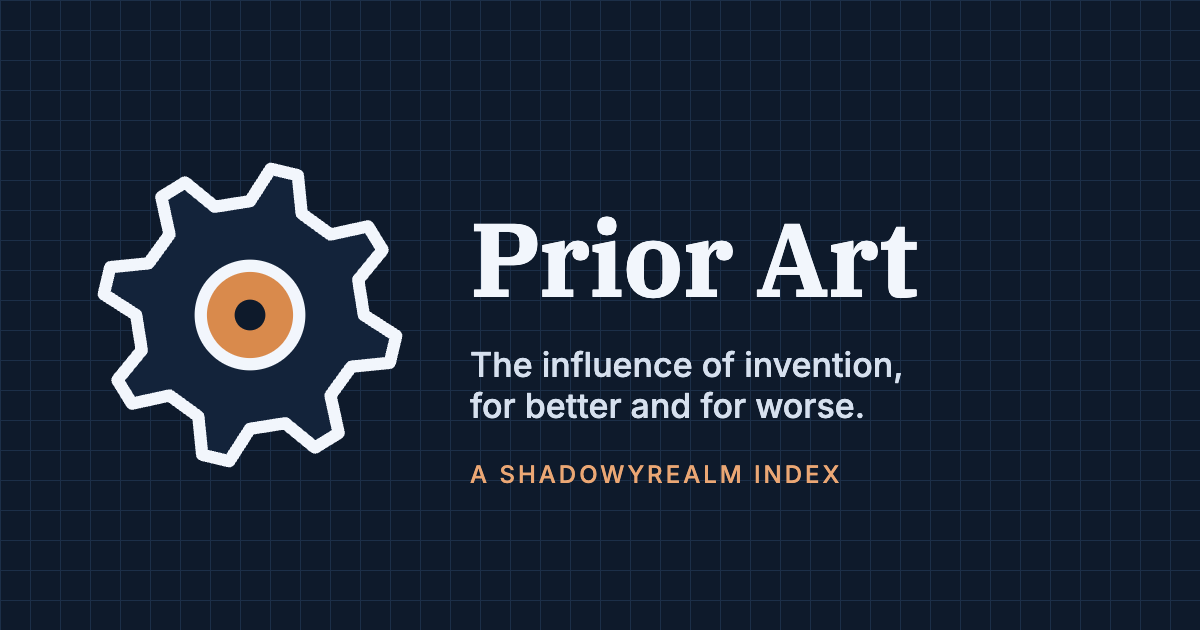
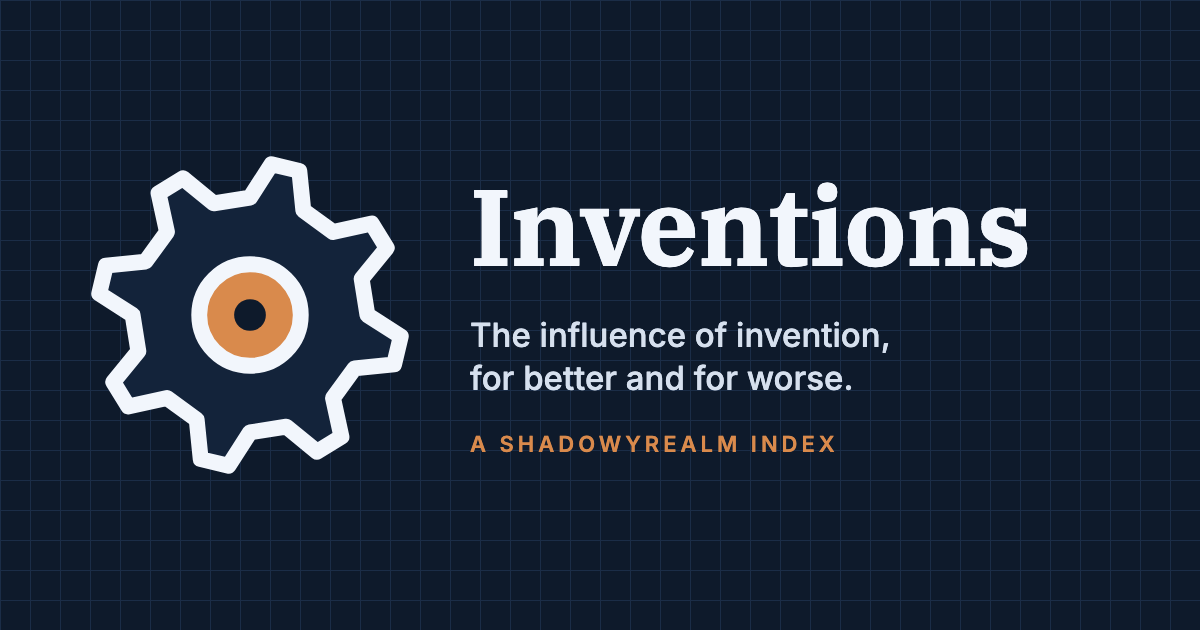
rename: Prior Art is now Inventions
A plain name for a novel idea. The brand, titles, share card, footer, menu
label, methodology prose, MCP server name and user agent say Inventions; the
site key, schema and priorart.shadowyrealm.com are unchanged. The methodology
no longer says credit is computed in Postgres: each share adds up every route
through the links, in the Worker, since 2026-11-16.

diff --git a/src/sites/inventions.ts b/src/sites/inventions.ts
@@ -1,5 +1,5 @@
 /**
- * Prior Art: inventions, inventors and products ranked by their influence,
+ * Inventions: inventions, inventors and products ranked by their influence,
  * from the first farms to the smartphone. Spec: .kiro/specs/inventions-site.
  */
 import { HISTORICAL_RUBRICS } from "./rubrics";
@@ -10,11 +10,11 @@ const DEPTH = "Rate how deeply those people were affected, not how many; breadth
 const ownActivity = (name: string) => `${name}'s own direct activity`;
 const makingAndUse = (name: string) => `the making and use of ${name}`;
 
-/** A subdomain of ShadowyRealm: Prior Art is one of its indexes. */
+/** A subdomain of ShadowyRealm: Inventions is one of its indexes. */
 const ORIGIN = "https://priorart.shadowyrealm.com";
 
-/** What each tier means on Prior Art (inventions-site Requirement 8.2). */
-export const PRIOR_ART_TIER_DESCRIPTORS: Record<TierDef["tier"], string> = {
+/** What each tier means on Inventions (inventions-site Requirement 8.2). */
+export const INVENTION_TIER_DESCRIPTORS: Record<TierDef["tier"], string> = {
   minimal: "Changed one industry or one era",
   moderate: "Changed work or life across a nation or a field",
   significant: "Changed daily life across nations and generations",
@@ -29,17 +29,17 @@ export const inventions: SiteConfig = {
   key: "inventions",
   schema: "inventions",
   brand: {
-    name: "Prior Art",
+    name: "Inventions",
     origin: ORIGIN,
-    title: "Prior Art — The Influence of Invention",
+    title: "Inventions — Ranked by Their Influence",
     description:
-      "Prior Art ranks inventions, inventors and products by their influence, from the first farms to the smartphone: what each did to the world, for better and for worse.",
+      "Inventions, inventors and products ranked by their influence, from the first farms to the smartphone: what each did to the world, for better and for worse.",
     ogImage: `${ORIGIN}/og-image.png`,
-    ogImageAlt: "The Prior Art mark, a patent drawing of meshing gears, on blueprint paper",
+    ogImageAlt: "The Inventions mark, a patent drawing of a gear, on blueprint paper",
     themeColor: "#0e1a2b",
     fontsHref:
       "https://fonts.googleapis.com/css2?family=IBM+Plex+Serif:wght@400;600;700&family=Inter:wght@400;500;600;700&display=swap",
-    userAgent: `PriorArt/1.0 (${ORIGIN})`,
+    userAgent: `ShadowyRealm-Inventions/1.0 (${ORIGIN})`,
   },
   scoring: {
     breadth: "reach",
@@ -101,11 +101,11 @@ export const inventions: SiteConfig = {
      * rule is from .kiro/specs/inventions-site/research.md.
      */
     tiers: [
-      { tier: "minimal", min: 0, label: "Notable", descriptor: PRIOR_ART_TIER_DESCRIPTORS.minimal },
-      { tier: "moderate", min: 50, label: "Major", descriptor: PRIOR_ART_TIER_DESCRIPTORS.moderate },
-      { tier: "significant", min: 100, label: "Great", descriptor: PRIOR_ART_TIER_DESCRIPTORS.significant },
-      { tier: "transformational", min: 500, label: "Epochal", descriptor: PRIOR_ART_TIER_DESCRIPTORS.transformational },
-      { tier: "legendary", min: 10000, label: "Legendary", descriptor: PRIOR_ART_TIER_DESCRIPTORS.legendary },
+      { tier: "minimal", min: 0, label: "Notable", descriptor: INVENTION_TIER_DESCRIPTORS.minimal },
+      { tier: "moderate", min: 50, label: "Major", descriptor: INVENTION_TIER_DESCRIPTORS.moderate },
+      { tier: "significant", min: 100, label: "Great", descriptor: INVENTION_TIER_DESCRIPTORS.significant },
+      { tier: "transformational", min: 500, label: "Epochal", descriptor: INVENTION_TIER_DESCRIPTORS.transformational },
+      { tier: "legendary", min: 10000, label: "Legendary", descriptor: INVENTION_TIER_DESCRIPTORS.legendary },
     ],
   },
   entityTypes: [
@@ -251,7 +251,7 @@ export const inventions: SiteConfig = {
     home: {
       heading: "Which inventions changed how we live — for better and for worse?",
       lede:
-        "Prior Art scores inventions, inventors and products by their influence, from the first farms to the smartphone. " +
+        "Inventions, inventors and products, scored by their influence from the first farms to the smartphone. " +
         "Benefit and harm are kept apart, never netted, and every invention passes a share of its weight back to the people and ideas it was built on.",
       toLineage: "Trace the lineage",
       toMethod: "How the score works",
@@ -280,12 +280,12 @@ export const inventions: SiteConfig = {
         "integrated circuit, the integrated circuit to Kilby and Noyce.",
     },
     auth: { signInHeading: "Sign In", signingIn: "Signing in..." },
-    footer: { tagline: "Prior Art — a ShadowyRealm index of invention" },
+    footer: { tagline: "Inventions — a ShadowyRealm index" },
   },
   mcp: {
-    serverName: "prior-art",
+    serverName: "inventions",
     about:
-      "Prior Art is an index of inventions, inventors and products that measures influence, not net good. An entity " +
+      "Inventions is a ShadowyRealm index of inventions, inventors and products that measures influence, not net good. An entity " +
       "is a person, organization, project, invention, product or discovery. What an invention made possible reaches " +
       "it as credit from the things built on it, so no dimension measures technology itself.",
     linkExamples:

diff --git a/src/sites/inventions/Methodology.tsx b/src/sites/inventions/Methodology.tsx
@@ -10,12 +10,12 @@ import {
   TierTable,
 } from "@/features/methodology/tables";
 
-/** Prior Art's account of its method; the tables come from the site config. */
+/** The Inventions index's account of its method; the tables come from the site config. */
 export function Methodology() {
   return (
     <>
       <p className="mt-4 text-lg text-ink-2">
-        Prior Art measures what inventions did to the world, not how clever they were. Fritz Haber's ammonia process
+        This index measures what inventions did to the world, not how clever they were. Fritz Haber's ammonia process
         feeds billions, and Haber also ran Germany's chlorine gas programme. Thomas Midgley gave the world leaded petrol
         and CFCs. The score keeps both sides of each.
       </p>
@@ -115,10 +115,9 @@ export function Methodology() {
 
         <h2 className="font-display text-ink">One of the ShadowyRealm indexes</h2>
         <p>
-          Prior Art runs on the same engine as ShadowyRealm, which scores people, institutions and events across
-          history. The credit shares are computed inside Postgres by a recursive query over the links, and a small
-          TypeScript calculator in a Cloudflare Worker turns periods into curves and areas for every page and for the
-          MCP tools that maintain the index.
+          Inventions runs on the same engine as ShadowyRealm, which scores people, institutions and events across
+          history. Each credit share adds up every route through the links, and the same calculator turns periods into
+          curves and areas for every page and for the MCP tools that maintain the index.
         </p>
         <p>
           <Link to="/realm">See the lineage</Link> or <Link to="/">return to the index</Link>.

diff --git a/content/types.ts b/content/types.ts
@@ -63,7 +63,7 @@ export type RealmEntity = SiteEntity<RealmEntityType>;
 export type RealmLink = SiteLink<RealmLinkType>;
 export type RealmContent = SiteContent<RealmEntityType, RealmLinkType>;
 
-// ---------- Prior Art ----------
+// ---------- Inventions ----------
 
 export type InventionsEntityType = "person" | "organization" | "project" | "invention" | "product" | "discovery";
 export type InventionsLinkType =
@@ -77,7 +77,7 @@ export type InventionsLinkType =
   | "rivalry"
   | "supersedes";
 export interface InventionsLink extends SiteLink<InventionsLinkType> {
-  /** Prior Art has no default link type. */
+  /** Inventions has no default link type. */
   type: InventionsLinkType;
 }
 export interface InventionsContent {

diff --git a/content/inventions/coverage.ts b/content/inventions/coverage.ts
@@ -1,5 +1,5 @@
 /**
- * Prior Art coverage, 2026-11-16: entries for the gaps a comparison with Wikipedia's Timeline of historic
+ * Inventions coverage, 2026-11-16: entries for the gaps a comparison with Wikipedia's Timeline of historic
  * inventions found (Landru work/shadowyrealm/prior-art-coverage.md), in eight batches drafted in parallel,
  * plus the hand-built aviation chain, and, from 2026-11-17, two batches of the creators of those entries.
  * Each batch's links stay inside it or reach existing entries; the links between batches are joined

diff --git a/test/system-one-scoring.test.ts b/test/system-one-scoring.test.ts
@@ -42,7 +42,7 @@ describe("depth", () => {
     expect(depthOf(sure)).toBeGreaterThan(depthOf(spread));
   });
 
-  test("is what ShadowyRealm reads from Clef, and Prior Art still reads the expected value", () => {
+  test("is what ShadowyRealm reads from Clef, and Inventions still reads the expected value", () => {
     const response = { answers: recorded.clef_answers };
     const people = readClefAnswers(shadowyrealm.scoring, response);
     for (const d of shadowyrealm.scoring.dimensions) {

diff --git a/content/inventions/coverage-d.ts b/content/inventions/coverage-d.ts
@@ -1,5 +1,5 @@
 /**
- * Prior Art coverage batch d: materials and weapons. Glass, brick, pottery,
+ * Inventions coverage batch d: materials and weapons. Glass, brick, pottery,
  * porcelain, stainless steel and the first plastics, with Wallace Carothers and
  * DuPont; the sword, bow, crossbow and catapult, the bomb, the land mine, the
  * tank and the thermonuclear weapon. Links run into these entries from bronze,

diff --git a/content/inventions/launch-industrial.ts b/content/inventions/launch-industrial.ts
@@ -1,5 +1,5 @@
 /**
- * Prior Art launch set, the industrial era (1700–1945): textiles, railways and
+ * Inventions launch set, the industrial era (1700–1945): textiles, railways and
  * steel, wired and wireless communication, recorded sound and photography,
  * vaccines and germ theory, explosives and the machine gun, flight and the
  * petrol engine. Links run between these entries and from the benchmark into

diff --git a/src/sites/inventions/tokens.css b/src/sites/inventions/tokens.css
@@ -1,5 +1,5 @@
 /* ---------------------------------------------------------------------------
-   Prior Art — its values for the canonical AR token vocabulary.
+   Inventions — its values for the canonical AR token vocabulary.
    See appliedrelevance/.kiro/steering/design-stack.md. The names are the
    ones src/styles/global.css defines in @theme; only the values differ.
 

diff --git a/tools/video-snapshot.ts b/tools/video-snapshot.ts
@@ -10,7 +10,7 @@
  * state of the data; re-run this to refresh it.
  *
  *   bun tools/video-snapshot.ts               # shadowyrealm
- *   bun tools/video-snapshot.ts inventions    # Prior Art
+ *   bun tools/video-snapshot.ts inventions    # Inventions
  */
 import { mkdirSync, mkdtempSync, readFileSync, rmSync, writeFileSync } from "node:fs";
 import { tmpdir } from "node:os";

diff --git a/content/inventions/index.ts b/content/inventions/index.ts
@@ -1,5 +1,5 @@
 /**
- * Prior Art content: the benchmark chains, the launch set and the coverage entries. Load with
+ * Inventions content: the benchmark chains, the launch set and the coverage entries. Load with
  * tools/realm-load.ts and check first with tools/content-check.ts.
  *
  * A link's share is the part of the consequence credited to the cause, smaller

diff --git a/content/inventions/coverage-b.ts b/content/inventions/coverage-b.ts
@@ -1,5 +1,5 @@
 /**
- * Prior Art coverage batch b: land and water transport, energy and
+ * Inventions coverage batch b: land and water transport, energy and
  * electricity. Entries found missing by the audit against Wikipedia's
  * Timeline of historic inventions. Links to or from other batches' entries
  * wait in crossLinksB until those batches are merged.

diff --git a/content/inventions/coverage-c.ts b/content/inventions/coverage-c.ts
@@ -1,5 +1,5 @@
 /**
- * Prior Art coverage batch c: food and farming, money and commerce. Drafted from a
+ * Inventions coverage batch c: food and farming, money and commerce. Drafted from a
  * coverage audit against Wikipedia's Timeline of historic inventions.
  */
 import type { InventionsContent, InventionsLink } from "../types";
